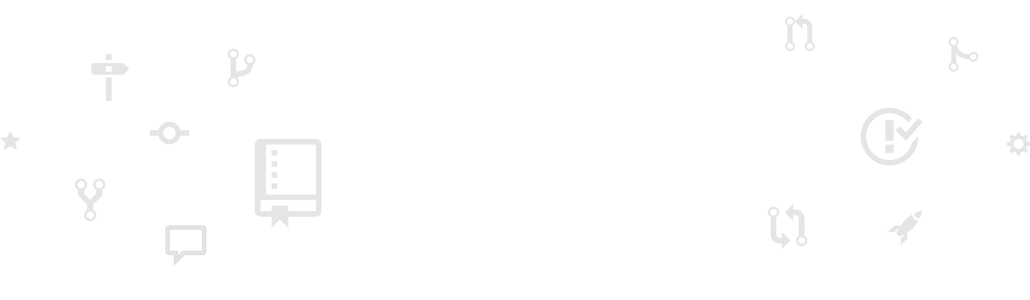
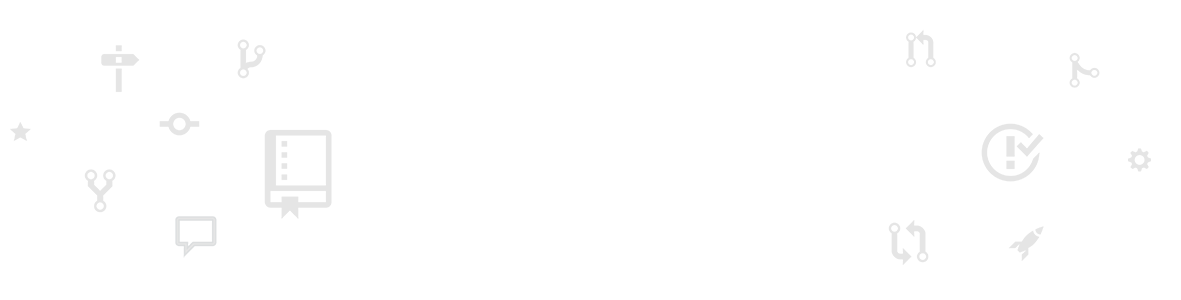
update

diff --git a/index.html b/index.html
@@ -10,6 +10,7 @@
         s.parentNode.insertBefore(hm, s);
     })();
 </script>
+
 <head>
     <meta charset="utf-8" />
     <meta http-equiv="X-UA-Compatible" content="IE=edge">
@@ -23,11 +24,11 @@
 </head>
 
 <body>
-
     <a href="https://github.com/iheng-scau">
         <img style="position: absolute; top: 0; right: 0; border: 0;" src="https://s3.amazonaws.com/github/ribbons/forkme_right_red_aa0000.png"
             alt="Fork me on GitHub">
     </a>
+
     <!--页面区域-->
     <div class="content">
         <header class="header">
@@ -35,12 +36,15 @@
                 <img alt="portrait" src="./img/me.jpg" />
             </div>
             <div class="profile-details">
-                <i class="fa fa-user" style="color:#c5c5c5"></i>
-                <b style="color:#c5c5c5">张德恒(Alex) | </b>
-                <span id="smaller-info" style="color :#c5c5c5">
-                    <i class="fa fa-mars" style="padding: 0;"></i>,26
+                <span style="color:#c5c5c5;font-family: consolas">
+                    iheng@github.io $><span class="shake">_</span>
                 </span>
                 <br/>
+                <span class="profile-section">
+                    <span id="smaller-info" style="color :#c5c5c5">
+                        <i class="fas fa-code"></i>Developer
+                    </span>
+                </span>
                 <span class="profile-section">
                     <i class="fa fa-envelope"></i>zhang.deheng@outlook.com,
                     <i class="fa fa-phone"></i>+86 15813374900
@@ -91,7 +95,7 @@
         <div class="main">
             <ul class="nav">
                 <li>
-                    <a href="#">
+                    <a href="#" style="border-bottom: solid #2fbd9d 5px;">
                         <i class="fas fa-file-invoice"></i>
                     </a>
                     <div class="sub-content" id="article-content">
@@ -99,13 +103,13 @@
                     </div>
                 </li>
                 <li>
-                    <a href="#">
+                    <a href="#" style="border-bottom: solid #f4c70f 5px;">
                         <i class="fas fa-archive"></i>
                     </a>
                     <div class="sub-content" id="project-content"></div>
                 </li>
                 <li>
-                    <a href="#">
+                    <a href="#" style="border-bottom: solid #148cc4 5px;">
                         <i class="fas fa-info-circle"></i>
                     </a>
                     <div class="sub-content" id="profile-content">

diff --git a/css/index_n.css b/css/index_n.css
@@ -1,11 +1,11 @@
 body{
-    background-image: url("../img/bg1.png");
+    background-image: url("../img/bg3.png");
 }
 
 .content{
-    width: 60%;
+    width: 70%;
     min-width: 1000px;
-    margin-left: 20%;
+    margin-left: 15%;
     margin-right: 10%;
     background-color: rgba(0,0,0,0.8);
 }
@@ -14,6 +14,7 @@ header{
     font-family: 微软雅黑,-apple-system, BlinkMacSystemFont, 'Segoe UI', Roboto, Oxygen, Ubuntu, Cantarell, 'Open Sans', 'Helvetica Neue', sans-serif;
     padding: 25px 10px 80px 10px;
     background-image: url("../img/header-bg.png");
+    background-position: center;
 }
 
 .profile-details{
@@ -102,7 +103,6 @@ header{
     display: inline-block;
     font-family: 'Segoe UI', Tahoma, Geneva, Verdana, sans-serif;
     width: 100%;
-    margin-top: 5px;
     height: inherit;
     line-height: 50px;
     text-align: center;
@@ -135,4 +135,30 @@ footer{
 
 .compatible-browser{
     width: 20px;
+}
+
+@-webkit-keyframes shake{
+    0%{
+        opacity: 1;
+    }
+    50%{
+        opacity: 0.5;
+    }
+    100%{
+        opacity: 1;
+    }
+}@keyframes shake{
+    0%{
+        opacity: 1;
+    }
+    50%{
+        opacity: 0;
+    }
+    100%{
+        opacity: 1;
+    }
+}
+.shake{
+    -webkit-animation: shake 0.5s infinite;
+    animation: shake 0.5s infinite;
 }
